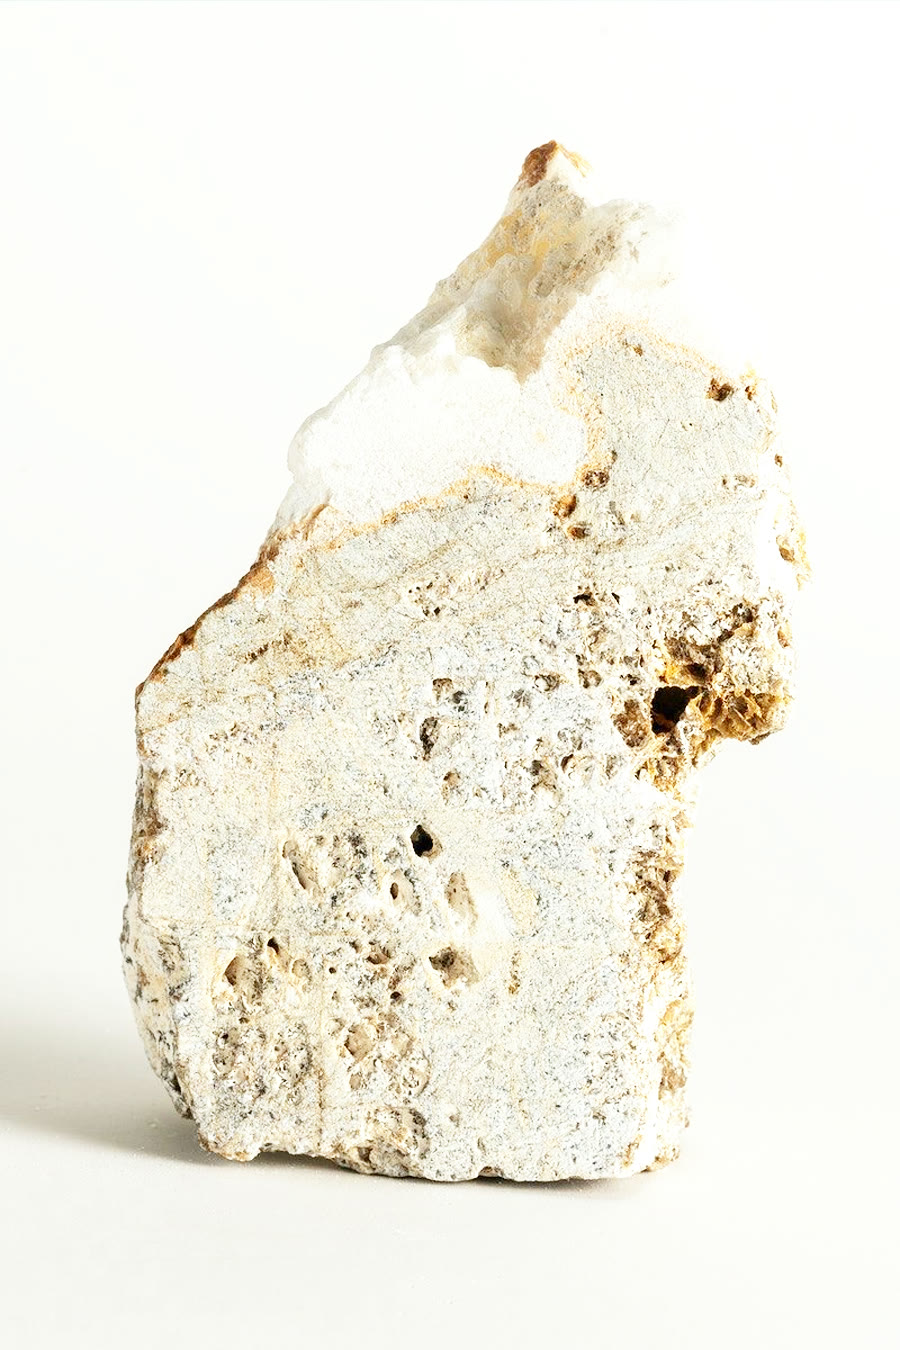
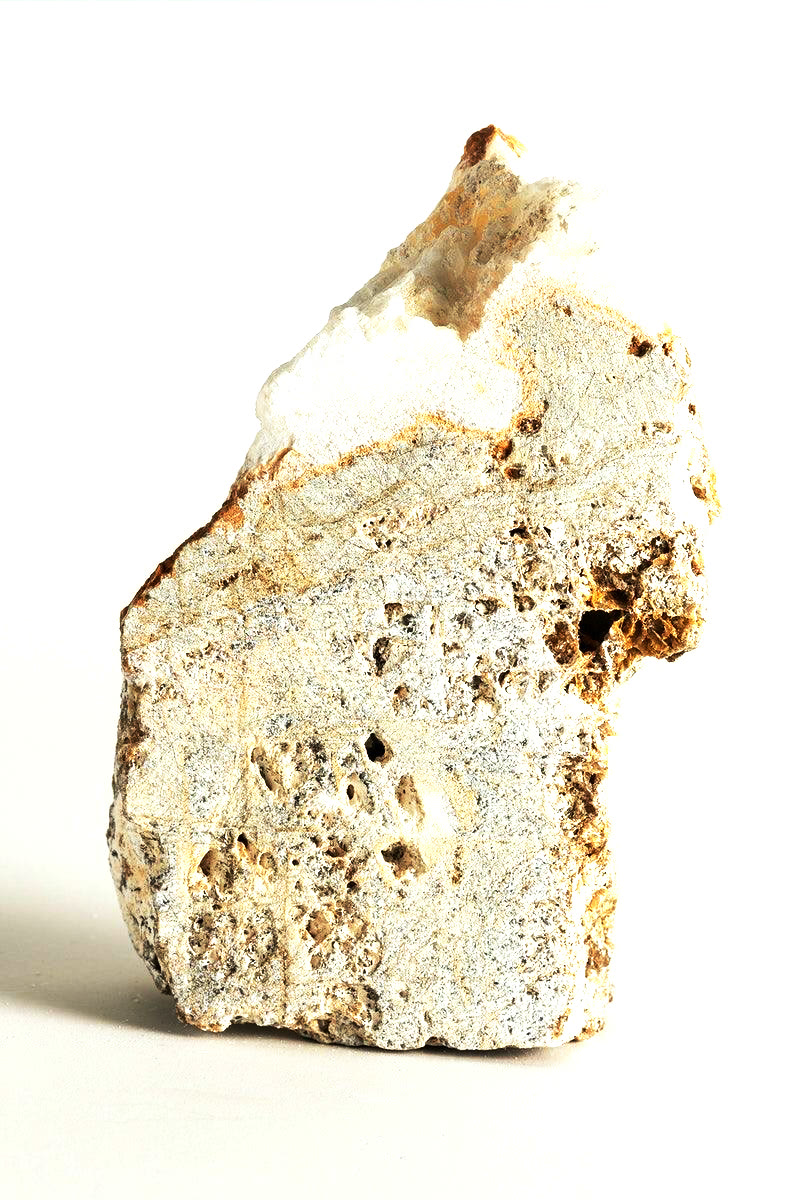
Слой-холст для Safari-бленда, фото хрущёвки в Сценарий 1, камень отбелен жёстче

Changed region(s): [[0.0, 0.0925, 0.9062, 0.8942], [0.3438, 0.2775, 0.375, 0.3083]]

diff --git a/index.html b/index.html
@@ -1241,6 +1241,11 @@ hr.hair.is-in{transform:scaleX(1)}
    остаётся белой коробкой (проверено A/B в Chrome). Порядок наложения
    решает поток: positioned-элементы и так рисуются поверх текста,
    а multiply сохраняет читаемость текста под объектом. */
+/* Подложка-холст. Safari не блендит mix-blend-mode с фоном самого body —
+   нужен НАРИСОВАННЫЙ слой. Фиксированный див с тем же кремовым закрывает
+   весь вьюпорт и лежит под всем контентом: бленд видит его в любом браузере. */
+.canvas{position:fixed;inset:0;background:var(--cream);z-index:-1;pointer-events:none}
+
 .orn{position:relative;height:var(--gap,0px);pointer-events:none}
 .orn__fig{position:absolute;top:50%;transform:translateY(var(--oy,-50%));width:var(--orn-w,260px);
   mix-blend-mode:multiply}
@@ -1281,6 +1286,7 @@ hr.hair.is-in{transform:scaleX(1)}
 </style>
 </head>
 <body>
+<div class="canvas" aria-hidden="true"></div>
 
 <!-- ============================ ШАПКА ============================ -->
 <header class="nav" id="nav">
@@ -1525,7 +1531,9 @@ hr.hair.is-in{transform:scaleX(1)}
 
     <div class="mosaic mosaic--3 mosaic--media">
       <article class="card">
-        <div class="ph ph--16x9"><span class="ph__ico">▦</span><span class="ph__label">Фото · съёмная или типовая квартира</span><span class="ph__spec">2400×1350</span></div>
+        <div class="ph--16x9 shot">
+          <img src="assets/site/scenario1-khrushchevka.jpg" alt="Съёмная или типовая квартира: кухня хрущёвки с шахматным полом и круглым столом у окна" loading="lazy" decoding="async">
+        </div>
         <div class="card__body">
           <span class="card__n">Сценарий 1</span>
           <h3>Арендная или типовая квартира</h3>
@@ -1585,7 +1593,7 @@ hr.hair.is-in{transform:scaleX(1)}
   </div>
 </section>
 
-<div class="orn orn--l orn--photo" style="--orn-w:280px;--ox:8vw;--gap:clamp(24px,4vw,60px)" aria-hidden="true">
+<div class="orn orn--l orn--photo" style="--orn-w:250px;--ox:9vw;--gap:clamp(24px,4vw,60px)" aria-hidden="true">
   <div class="orn__fig"><img src="assets/ornaments/orn-rock.jpg" alt="" loading="lazy" decoding="async"></div>
 </div>
 <!-- ============ БЛОК 10. АННА РОМЕО ============ -->

diff --git a/HANDOFF.md b/HANDOFF.md
@@ -37,7 +37,10 @@
   исходника остаётся белой коробкой; у `.wrap` глобальный `z-index:2`,
   поэтому deco нельзя класть внутрь `.head`, только на уровень секции.
   (2) Chrome в fullPage-скриншоте Playwright теряет multiply-слои —
-  проверять только вьюпортными скриншотами.
+  проверять только вьюпортными скриншотами. (3) **Safari не блендит
+  mix-blend-mode с фоном body** — нужен нарисованный слой: `.canvas`
+  (fixed, inset:0, кремовый, z-index:-1) сразу после `<body>`; без него
+  в Safari все объекты стояли белыми коробками при идеальном Chrome.
 * **Два новых кейса** в «Васту в реальной жизни» (теперь пять каруселей):
   «Расчистила центр дома» (`assets/cases/center-*.jpg`) и «7 изменений по
   секторам» (`assets/cases/sectors-*.jpg`). Вотермарка REE STUDIO на обложке
@@ -93,10 +96,7 @@
 
 ## Всё ещё не закрыто
 
-* **Фото Сценария 1 (хрущёвка)** — Анна прислала его в Telegram 31 августа в
-  21:24 как фото, файлом на диск оно не дошло (в отличие от остального).
-  Сохранить из чата в `~/Downloads` — слот в разметке ждёт
-  (`ФОТО · СЪЁМНАЯ ИЛИ ТИПОВАЯ КВАРТИРА`).
+* ~~Фото Сценария 1~~ — закрыто 1 сентября: `scenario1-khrushchevka.jpg`.
 * Скриншот платформы / кадр с эфира (2400×1800) и превью «Урок» (1200×1200).
 * Тексты Сценариев 2 и 3 в новой формулировке — стоят старые.
 * Решение Анны по металлик-паку и «цветку жизни» для разделителей.
